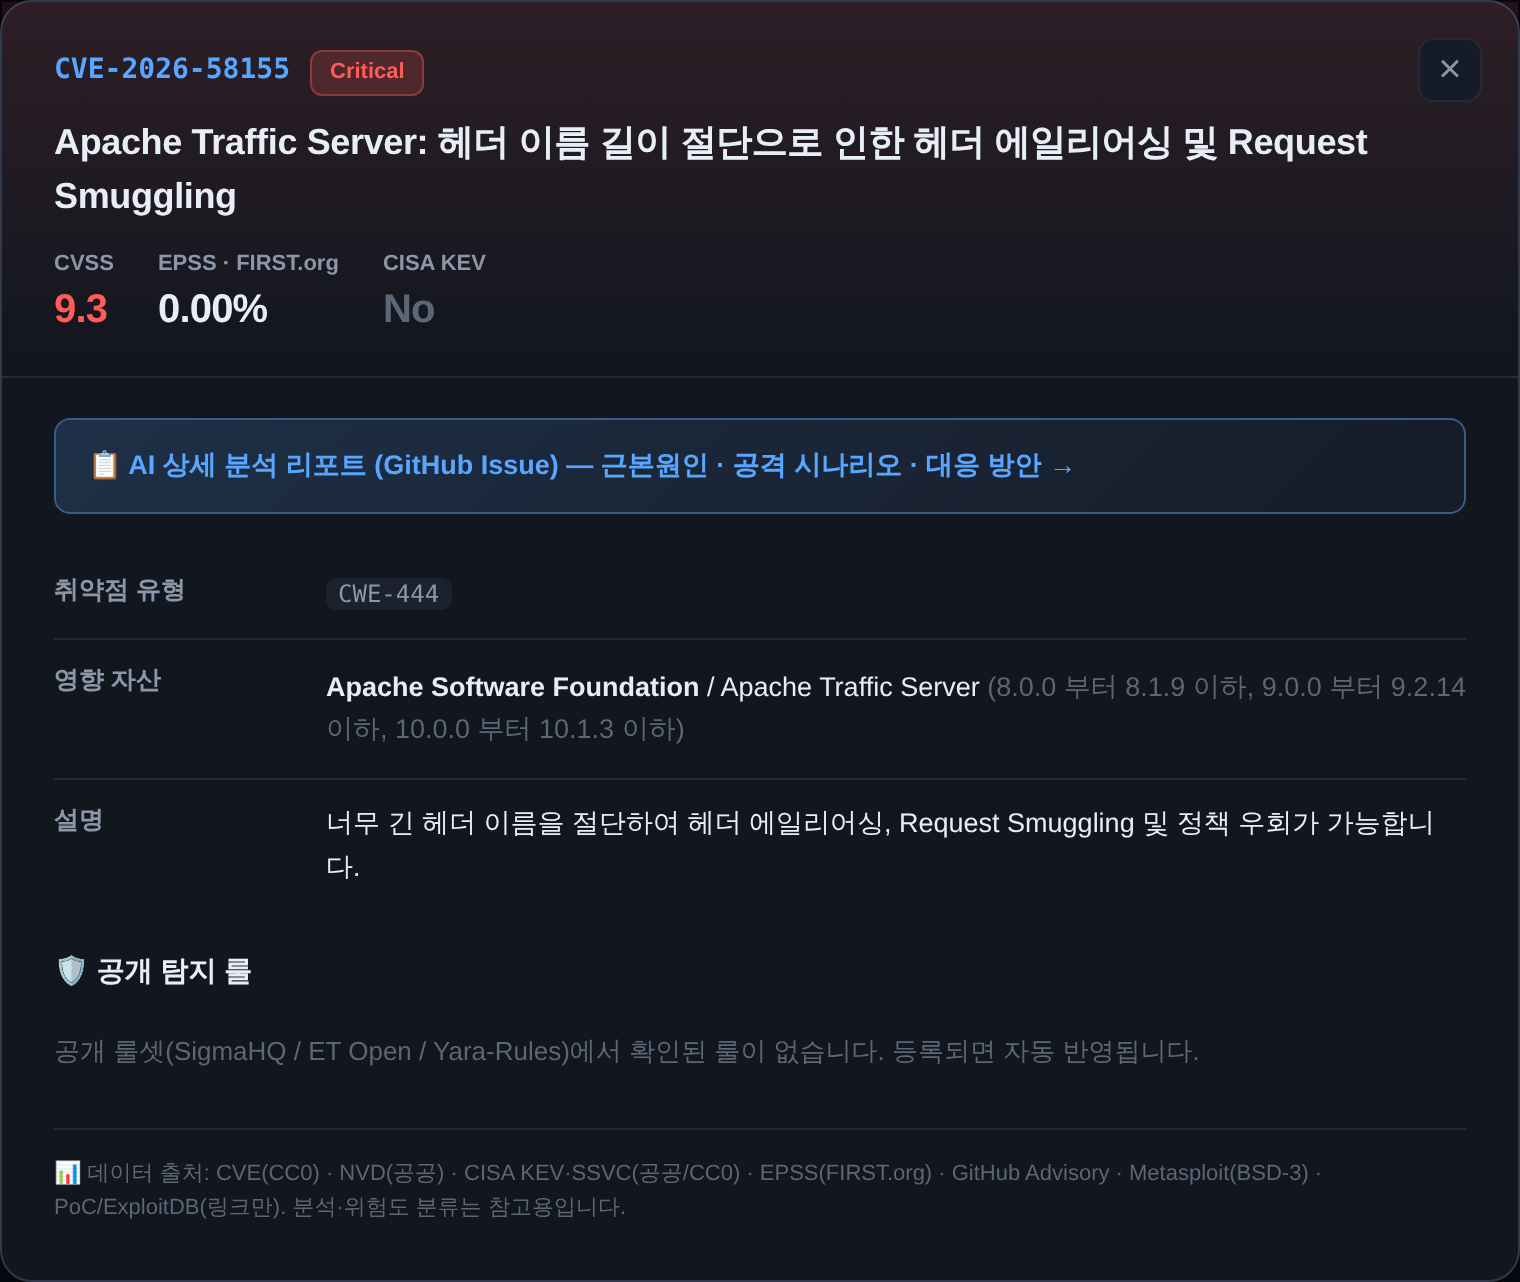
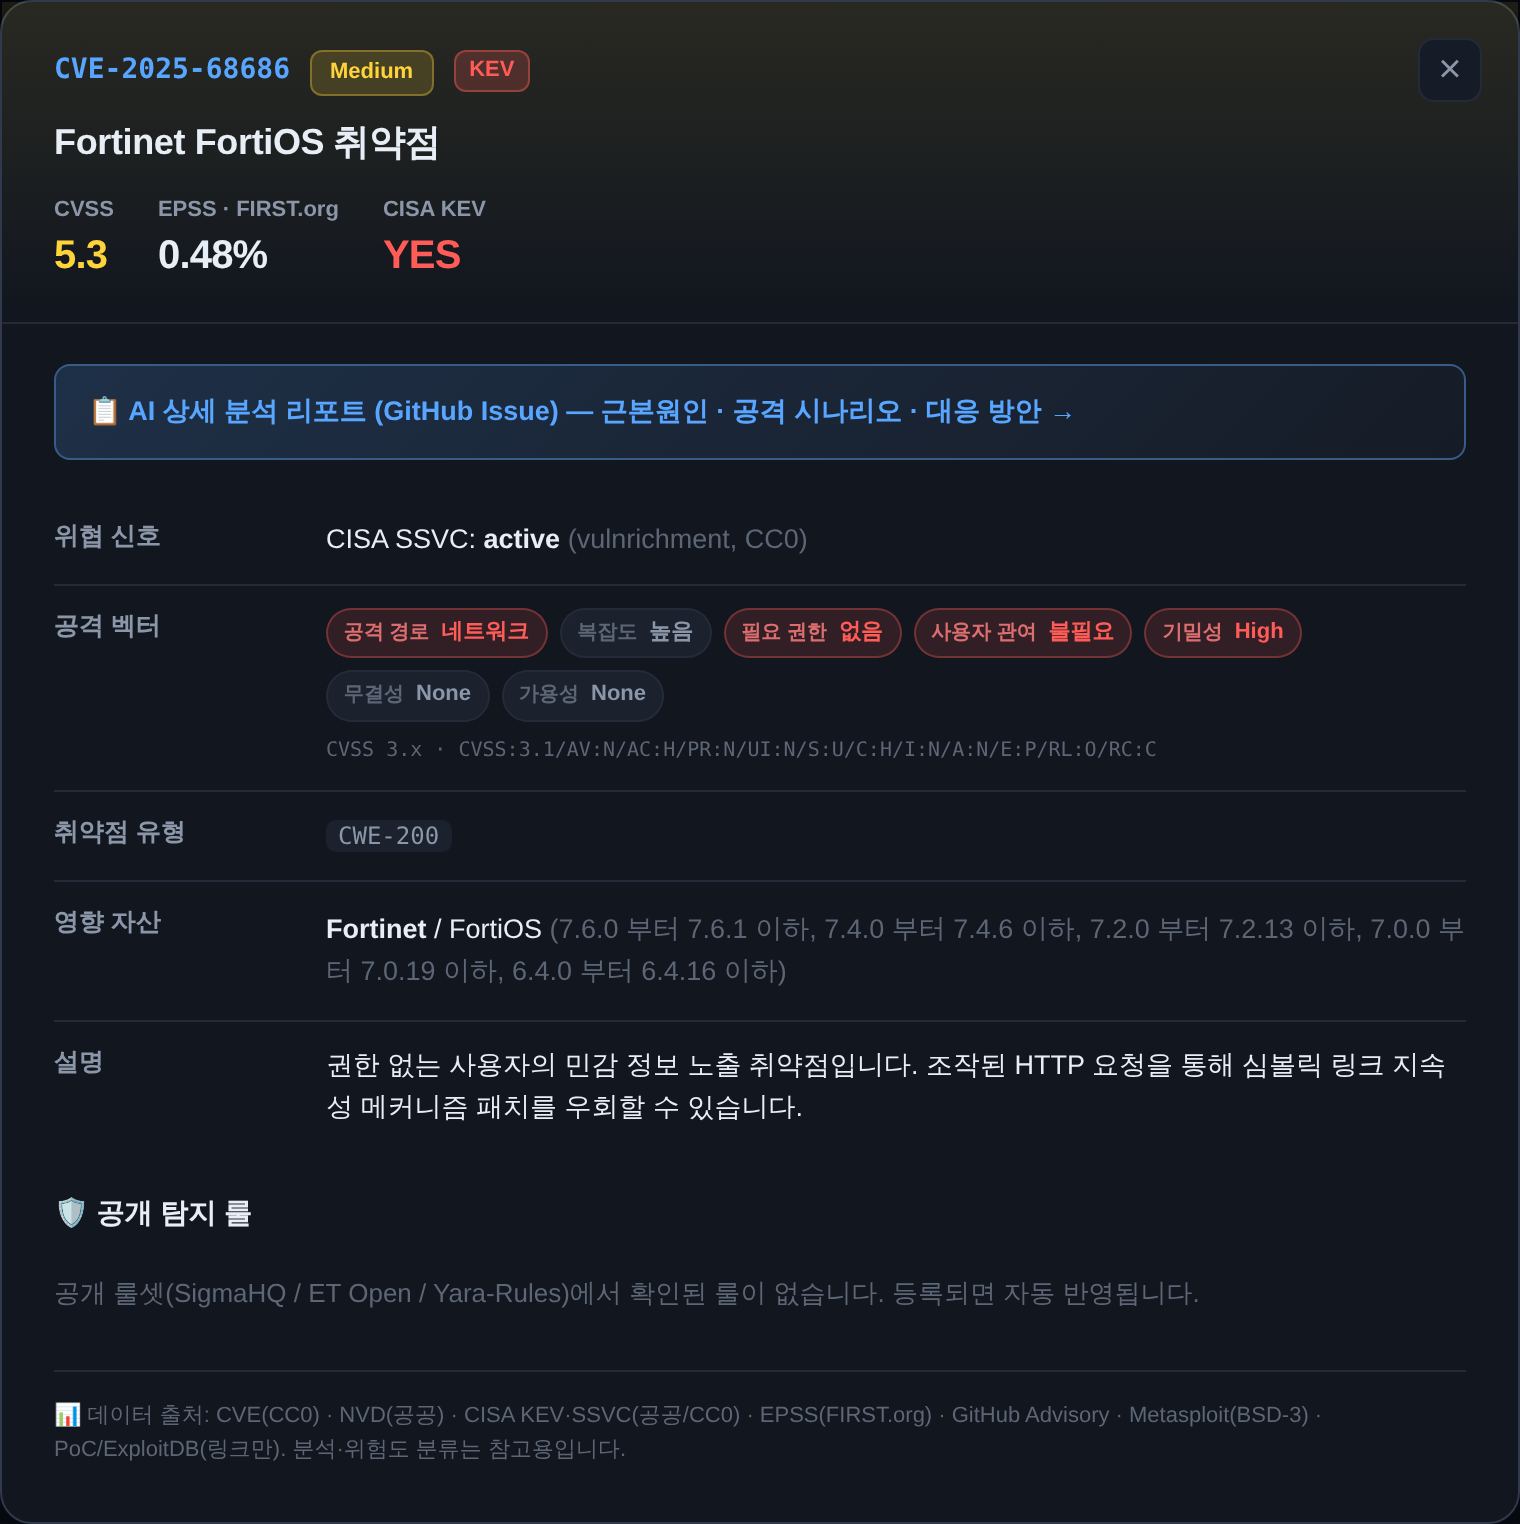
docs: 대시보드·상세 스크린샷을 공격 벡터 칩이 보이는 최신 화면으로 교체
- 상세 모달 스크린샷을 CVE-2025-68686(Fortinet FortiOS, KEV·SSVC active)로 교체.
  실제 CVSS 벡터(AV:N/AC:H/PR:N/UI:N/C:H/I:N/A:N)라 위험 조건 4개는 빨강,
  완화 조건 3개는 회색으로 나와 색 구분이 화면에 드러남
- README 실제 화면 섹션에 벡터 항목별 색 구분 설명 추가
- 대시보드 스크린샷도 현재 UI(5개 필터 · 공개 룰/내 자산 신호 · 제품 TOP)로 갱신

라이브 export에는 cvss_vector가 아직 비어 있어(필드 도입 이후 처리분부터 채워짐)
촬영 시 사본 데이터에 cvelistV5의 실제 벡터 문자열만 주입했고, 저장소의
docs/data는 변경하지 않았다.

Claude-Session: https://claude.ai/code/session_01Qtv26mfVXUhSSSg6GJ5hbd

diff --git a/README.md b/README.md
@@ -99,6 +99,10 @@ syft C:\ -o cyclonedx-json=sbom-windows.json
 실제 악용 여부, 자산 영향, 탐지 룰 존재 여부를 한눈에 봅니다. 걸러낸 결과는 CSV·JSON·STIX 2.1로
 내보냅니다.
 
+CVSS 벡터는 점수 하나로 뭉쳐 두지 않고 항목별로 쪼개, **위험을 높이는 조건만 빨갛게** 칠했습니다
+(아래 화면의 `공격 벡터` 줄 — 네트워크 접근·권한 불필요는 빨강, 높은 공격 복잡도·무결성 영향 없음은 회색).
+같은 5.3점이어도 어디가 문제인지가 바로 드러납니다.
+
 <div align="center">
 
 ![CVE 상세](docs/assets/detail.png)
